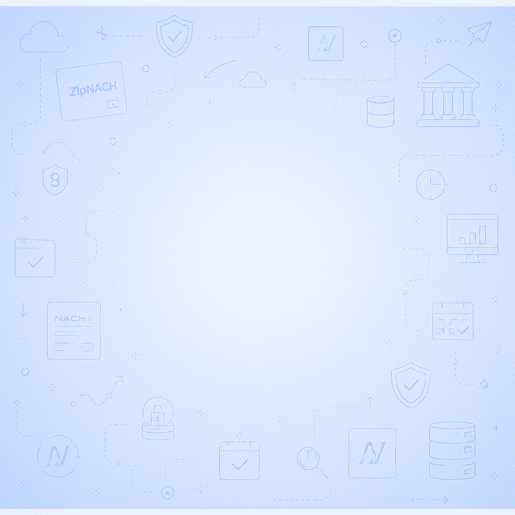
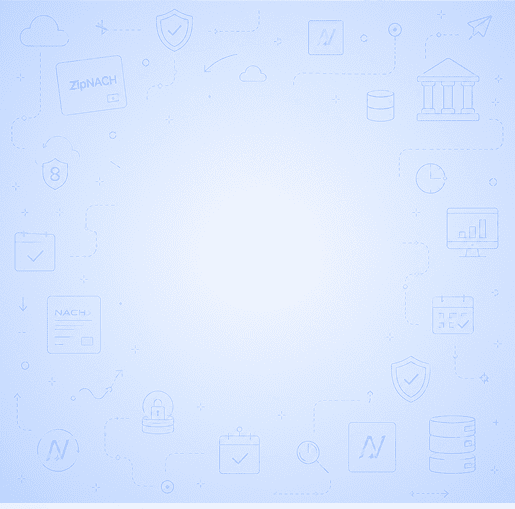
Model/Facts page added

diff --git a/components/sections/factCentre/Chart.tsx b/components/sections/factCentre/Chart.tsx
@@ -19,7 +19,7 @@ export default function Chart() {
     return (
         <div className="grid grid-cols-1 lg:grid-cols-[0.5fr_1fr] gap-8 bg-white rounded-xl border border-[#B3B3B3] overflow-hidden">
             {/* Left — Donut chart */}
-            <div className="relative flex items-center justify-center rounded-lg">
+            <div className="relative flex items-center justify-center  bg-[url('/images/factCentre/chartBg.png')] bg-cover bg-center py-15">
                 <PieChart width={300} height={300}>
                     <Pie
                         data={data}
@@ -56,7 +56,7 @@ export default function Chart() {
             </div>
 
             {/* Right — list with bars */}
-            <div>
+            <div className='bg-white py-15 px-10'>
                 <h2 className="text-2xl font-heading text-heading">NACH Rejection Distribution</h2>
                 <p className="text-xs text-gray-400 mt-1">5,000 failed debits analysed in the last 30 days</p>
 
